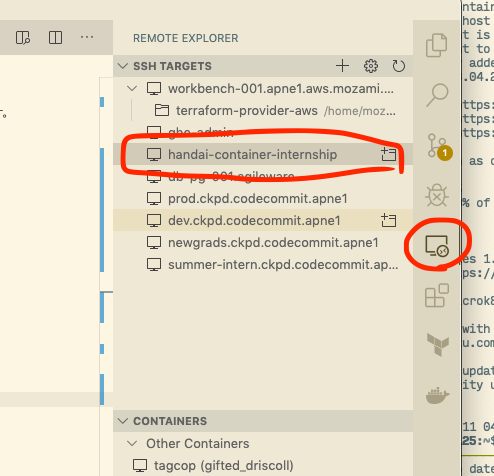
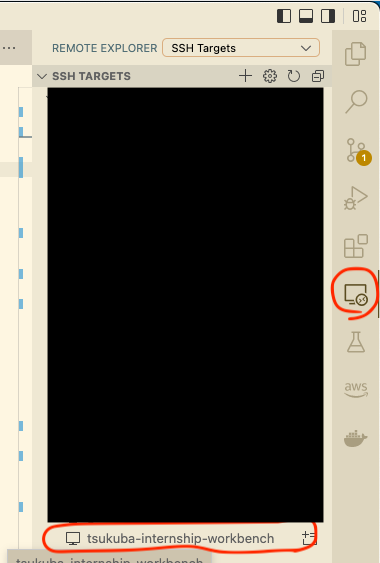
Edit '00. Setup' for Tsukuba 1day internship

diff --git a/00/README.md b/00/README.md
@@ -1,25 +1,25 @@
 # Setup
 
-講義を開始する前に、講義で使うためのインスタンスにログインする準備をします。皆さんには事前に、インスタンスの IP アドレスと、そのインスタンスにログインするための秘密鍵をお渡しします。
+講義を開始する前に、講義で使うための EC2 インスタンスにログインする準備をします。皆さんには事前にインスタンスの IP アドレスと、そのインスタンスにログインするための秘密鍵をお渡しします。
 
-受け取った秘密鍵は、SSH ログインで利用可能なように、次の操作を行ってください。
+受け取った秘密鍵は SSH ログインで利用可能なように次の操作を行ってください。
 
 ```
-$ chmod 600 id_rsa.handai-internship.pem
-$ mv id_rsa.handai-internship.pem ~/.ssh
+$ chmod 600 tsukuba-container-internship-2022.pem
+$ mv tsukuba-container-internship-2022.pem ~/.ssh
 ```
 
 次に、~/.ssh/config に、インスタンスにログインするための設定を追加します。
 
 ```
-Host handai-container-internship
+Host tsukuba-internship-workbench
   User ubuntu
   HostName ${インスタンスの IP アドレス}
   Port 22
-  IdentityFile ~/.ssh/id_rsa.handai-internship.pem
+  IdentityFile ~/.ssh/tsukuba-container-internship-2022.pem
 ```
 
-では、VS Code から接続してみましょう。画面端の remote development のアイコンを探し、SSH TARGETS から、さきほど ~/.ssh/config に追加した handai-container-internship を探し、右クリックして「Connect to Host in Current Window」を選択します。もしくは、右の + マークのついた窓のアイコンをクリックすると、別ウィンドウで開くこともできます。
+では、VS Code から接続してみましょう。画面端の Remote Explorer のアイコンを探し、SSH TARGETS から、さきほど ~/.ssh/config に追加した tsukuba-internship-workbench を探し、右クリックして「Connect to Host in Current Window」を選択します。もしくは、右の + マークのついた窓のアイコンをクリックすると、別ウィンドウで開くこともできます。
 
 ![](ss_01.png)
 
@@ -27,16 +27,16 @@ Host handai-container-internship
 
 ![](ss_02.png)
 
-その状態で、メニューバーの「View - Terminal」をクリックするか、Ctrl + ` を押すことで、VS Code 上でターミナルを開くことができます。適当にコマンドを打ち、動作確認してみてください。
+その状態でメニューバーの「View - Terminal」をクリックするか <kbd><kbd>Ctrl</kbd> + <kbd>`` ` ``</kbd></kbd> を押すことで、VS Code に付属しているターミナルを開くことができます。適当にコマンドを打って動作確認してみてください。以下のスクリーンショットのように `code` コマンドを利用すると SSH ログインした状態の VS Code 上のファイルを編集することもできます。
 
 ![](ss_03.png)
 
-インスタンス上で Vim を使いたい、エディタは VS Code でいいけれどターミナルは手に馴染んだものを使いたいといったように、ターミナルからログインしたい場合は、
+インスタンス上で Vim を使いたい場合や、エディタは VS Code でいいけれどターミナルは手に馴染んだものを使いたい場合にターミナルからログインするときは、
 
 ```
-$ ssh handai-container-internship
+$ ssh tsukuba-internship-workbench
 ```
 
 のようにしてください。
 
-うまくログインが成功すればセットアップは完了です。
+ログインが完了して `ls` などの適当なコマンドが動けばセットアップは完了です。
